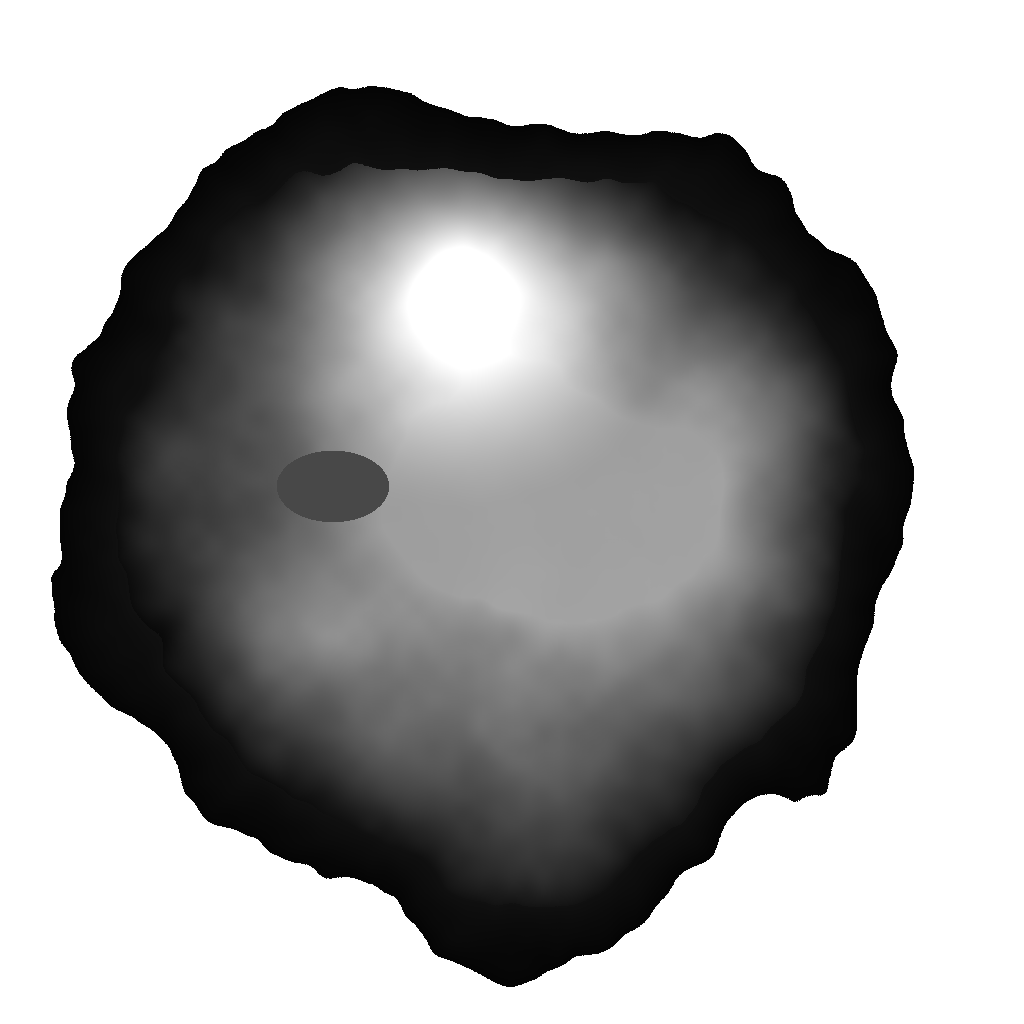
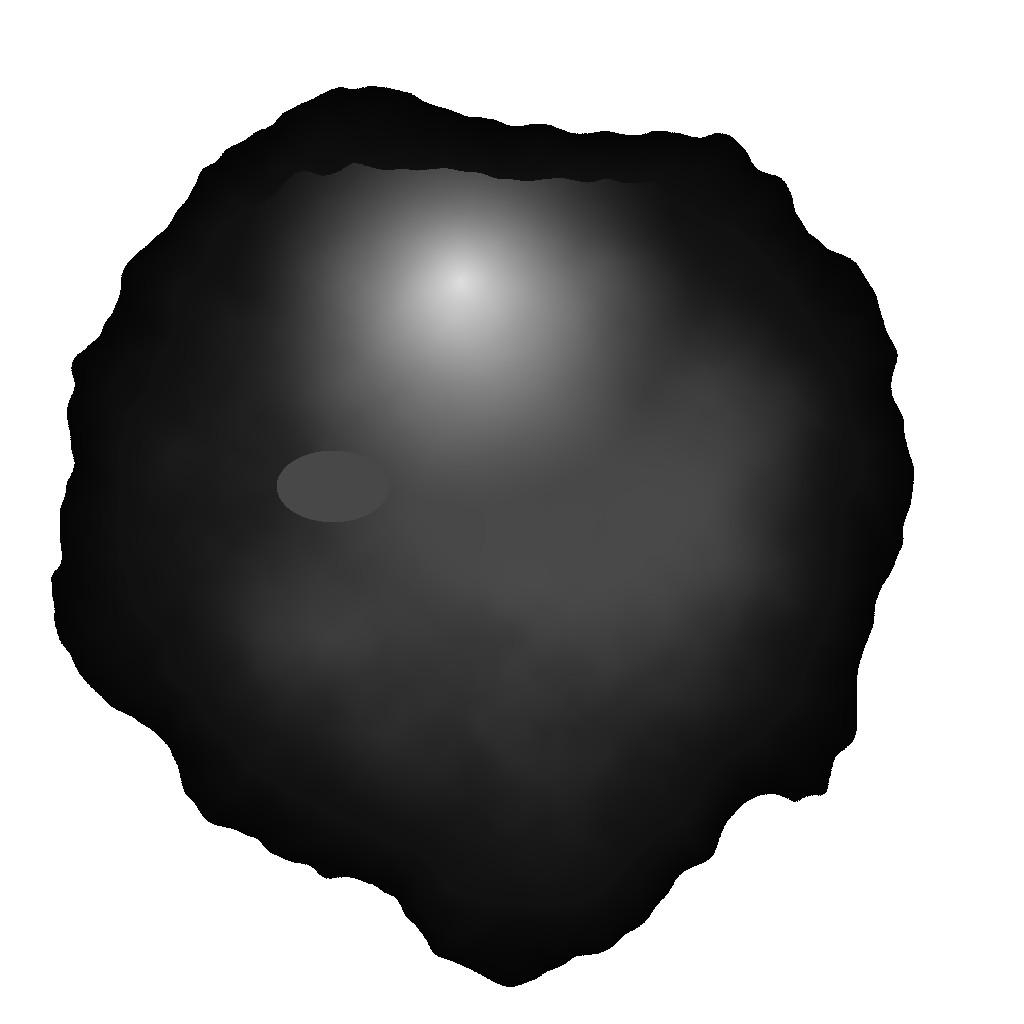
Relief depuis une image : lissage conseillé mesuré à l'écran ; projet d'exemple complet
Vérification à l'écran de l'île d'exemple (relief, mer, quartiers lotis, autoroute) :
- Arcs bruns le long des courbes de niveau = marches des 256 niveaux de gris. Lissage 8 m :
  visibles ; 48 m : effacés. Le critère « pente > 28° » les sous-estimait (l'éclairage les
  révèle avant). Nouveau `relief_image::lissage_conseille` = 25 × la marche
  ((blanc − noir) / 255), au moins 2 pixels ; proposé dans l'éditeur (« Prendre »).
- L'île d'exemple était trop raide (38 % de la terre au-dessus de 28° même lissée) :
  générateur corrigé (plaine côtière douce), 10 % restants = massif et bords du lac.
- Exemple exécutable `ile_exemple` : construit le projet complet (relief, mer creusée, ville
  et zone d'activité loties, autoroute et route relevées) à ouvrir dans l'éditeur.
- Mesures (--release) : relief 1,0 s, mer 0,95 s, relevés 0,37 s ; convention et todo à jour.

diff --git a/mcf/crates/mcf_carte/examples/ile_exemple.rs b/mcf/crates/mcf_carte/examples/ile_exemple.rs
@@ -1,0 +1,90 @@
+//! Construit un projet de carte complet à partir de l'exemple de la convention des cartes sources
+//! (`docs/CONVENTION_CARTES_SOURCE.md`) : relief depuis la carte en gris, mer creusée, ville et zone industrielle
+//! relevées et loties, autoroute et route relevées. Exactement les gestes de l'auteur dans l'éditeur, sans l'éditeur.
+//!
+//! ```text
+//! cargo run -p mcf_carte --example ile_exemple --release -- <dossier neuf ou vide>
+//! cargo editor -- <dossier>
+//! ```
+
+use std::path::PathBuf;
+use std::time::Instant;
+
+use mcf_carte::{Carte, Densite, Famille, Manifeste, releve, relief_image};
+use mcf_geo::ClasseRoute;
+
+fn exemple(nom: &str) -> Vec<u8> {
+    let chemin = PathBuf::from(env!("CARGO_MANIFEST_DIR"))
+        .join("../../../docs/exemples")
+        .join(nom);
+    std::fs::read(&chemin).unwrap_or_else(|e| panic!("{} : {e}", chemin.display()))
+}
+
+fn relever(c: &Carte, id: mcf_carte::Id, sorte: releve::Sorte, px: f64, py: f64) -> Vec<releve::Proposition> {
+    let r = &c.references.references[&id];
+    let g = releve::Grille::preparer(&c.images_references[&id], r, &c.manifeste).expect("grille");
+    g.analyser(sorte, r.vers_carte(px, py), &sorte.reglages())
+        .expect("analyse")
+}
+
+fn main() -> Result<(), String> {
+    let dossier = std::env::args_os()
+        .nth(1)
+        .map(PathBuf::from)
+        .ok_or("usage : ile_exemple <dossier neuf ou vide>")?;
+    let debut = Instant::now();
+
+    let mut m = Manifeste::nouveau("ile_exemple", 4096.0);
+    (m.altitude_min_m, m.altitude_max_m) = (-40.0, 600.0);
+    let mut c = Carte::nouvelle(m)?;
+    let couleurs = c.importer_reference("couleurs", &exemple("ile_exemple_couleurs.png"))?;
+    let relief = c.importer_reference("relief", &exemple("ile_exemple_relief.png"))?;
+    c.modifier_reference(relief, "Masquer le calque de relief", |r| {
+        r.visible = false;
+        Ok(())
+    })?;
+
+    let n = c.relief_depuis_reference(
+        relief,
+        -40.0,
+        600.0,
+        relief_image::lissage_conseille(-40.0, 600.0, 4.0),
+    )?;
+    println!("Relief : {n} points.");
+    if let Some(releve::Proposition::Eau(eau)) = relever(&c, couleurs, releve::Sorte::Eau, 20.0, 20.0).first()
+    {
+        println!("Mer : {} points creusés.", c.creuser_eau(eau, 0.0, 8.0, 40.0)?);
+    }
+    for (px, py, famille, nom) in [
+        (615.0, 738.0, Famille::Residentiel, "ville"),
+        (790.0, 612.0, Famille::Activite, "zone industrielle"),
+    ] {
+        if let Some(releve::Proposition::Zone { polygone, .. }) =
+            relever(&c, couleurs, releve::Sorte::Zone, px, py).first()
+        {
+            let id = c.ajouter_zone(releve::borner(polygone, &c.manifeste), famille, Densite::Moyenne)?;
+            println!("{nom} : {} bâtiment(s).", c.lotir(id)?);
+        }
+    }
+    for (px, py, classe) in [
+        (721.0, 685.0, ClasseRoute::Autoroute),
+        (300.0, 600.0, ClasseRoute::Route),
+    ] {
+        for p in relever(&c, couleurs, releve::Sorte::Routes, px, py)
+            .iter()
+            .take(1)
+        {
+            if let releve::Proposition::Route { trace, .. } = p {
+                let ids = c.tracer_route(classe, &releve::borner(trace, &c.manifeste), 4.0)?;
+                println!("{} : {} tronçon(s).", classe.nom(), ids.len());
+            }
+        }
+    }
+    c.enregistrer(Some(&dossier))?;
+    println!(
+        "Projet écrit dans {} en {:?}.",
+        dossier.display(),
+        debut.elapsed()
+    );
+    Ok(())
+}

diff --git a/mcf/crates/mcf_carte/src/relief_image.rs b/mcf/crates/mcf_carte/src/relief_image.rs
@@ -13,6 +13,18 @@ pub const LISSAGE_MAX_M: f64 = 500.0;
 /// Seuil d'opacité sous lequel un pixel ne porte pas de donnée (0 à 255).
 pub const ALPHA_DONNEE: u8 = 128;
 
+/// Lissage conseillé (m) pour effacer les marches des 256 niveaux : ~25 fois la hauteur d'une marche
+/// (`(blanc − noir) / 255`), et au moins 2 pixels de l'image. Constaté à l'écran sur l'exemple de la convention
+/// (2,5 m par niveau, 4 m par pixel) : 8 m laisse des arcs le long des courbes de niveau, 48 m les efface ; un critère
+/// de pente seule (> 28°) ne les voyait pas, l'éclairage les révèle bien avant.
+pub fn lissage_conseille(noir_m: f64, blanc_m: f64, m_par_px: f64) -> f64 {
+    let marche = (blanc_m - noir_m).abs() / 255.0;
+    (25.0 * marche)
+        .max(2.0 * m_par_px)
+        .clamp(0.0, LISSAGE_MAX_M)
+        .round()
+}
+
 /// Gris (0 = noir, 1 = blanc) d'un pixel, ou `None` s'il est transparent. Luminance Rec. 709 des valeurs codées :
 /// une image en niveaux de gris redonne exactement son niveau.
 fn gris_pixel(image: &ImageRgba, x: usize, y: usize) -> Option<f64> {
@@ -143,6 +155,16 @@ mod tests {
         assert_eq!(gris(&trou, 0.5, 0.5), None);
         // À côté du trou : le pixel le plus proche, sans mélange avec le trou.
         assert_eq!(gris(&trou, 1.2, 0.5), Some(1.0));
+    }
+
+    #[test]
+    fn lissage_conseille_selon_la_marche() {
+        // Exemple de la convention : 640 m sur 255 niveaux = 2,5 m par marche → 63 m.
+        assert_eq!(lissage_conseille(-40.0, 600.0, 4.0), 63.0);
+        // map_1 : 2 600 m de dénivelé, 25 m par pixel → ~255 m.
+        assert_eq!(lissage_conseille(-100.0, 2500.0, 25.0), 255.0);
+        // Faible dénivelé, gros pixels : 2 pixels au moins.
+        assert_eq!(lissage_conseille(0.0, 10.0, 30.0), 60.0);
     }
 
     #[test]

diff --git a/mcf/crates/mcf_editor/src/conception/ui.rs b/mcf/crates/mcf_editor/src/conception/ui.rs
@@ -1242,11 +1242,22 @@ fn relief_depuis_calque(ui: &mut egui::Ui, projet: &mut Projet, edition: &mut Ed
         .on_hover_text("Adoucit les marches des 256 niveaux de gris (0 = aucun).");
         ui.end_row();
     });
-    ui.label(
-        egui::RichText::new(format!("Plage d'altitude de la carte : {min} à {max} m."))
+    let conseille = projet.carte.references.references.get(&id).map_or(0.0, |r| {
+        mcf_carte::relief_image::lissage_conseille(edition.relief_noir_m, edition.relief_blanc_m, r.m_par_px)
+    });
+    ui.horizontal(|ui| {
+        ui.label(
+            egui::RichText::new(format!(
+                "Plage de la carte : {min} à {max} m. Lissage conseillé : {conseille} m (efface les marches des \
+                 256 niveaux de gris)."
+            ))
             .small()
             .weak(),
-    );
+        );
+        if ui.small_button("Prendre").clicked() {
+            edition.relief_lissage_m = conseille;
+        }
+    });
     if ui.button("⛰ Appliquer comme relief").clicked() {
         let r = projet.carte.relief_depuis_reference(
             id,

diff --git a/mcf/tools/exemple_carte/generer.py b/mcf/tools/exemple_carte/generer.py
@@ -54,9 +54,13 @@ def main():
     terre = 0.72 - np.hypot(x * 1.05, y) + 0.18 * bruit(rng, COTE_PX)
     # Massif au nord, collines douces ailleurs, plaine côtière au sud.
     massif = np.clip(1 - np.hypot(x + 0.1, y + 0.45) / 0.45, 0, 1) ** 1.6
+    # Plaine côtière douce (montée progressive vers l'intérieur), collines modérées, massif plus raide.
+    interieur = np.clip(terre / 0.5, 0, 1)
+    interieur = interieur * interieur * (3 - 2 * interieur)
+    collines = 12 * bruit(rng, COTE_PX, 4) * interieur
     altitude = np.where(
         terre > 0,
-        2 + 900 * np.clip(terre, 0, 0.4) + 520 * massif + 25 * bruit(rng, COTE_PX, 6),
+        2 + 140 * interieur + 430 * massif + collines,
         -40 * np.clip(-terre * 6, 0, 1),
     )
     # Lac à 140 m dans une cuvette à l'ouest du massif.

diff --git a/mcf/crates/mcf_carte/tests/exemple_ile.rs b/mcf/crates/mcf_carte/tests/exemple_ile.rs
@@ -5,7 +5,7 @@
 use std::path::PathBuf;
 use std::time::Instant;
 
-use mcf_carte::{Carte, Manifeste, releve};
+use mcf_carte::{Carte, Manifeste, releve, relief_image};
 
 fn exemple(nom: &str) -> Vec<u8> {
     let chemin = PathBuf::from(env!("CARGO_MANIFEST_DIR"))
@@ -46,7 +46,12 @@ fn ile_exemple_de_bout_en_bout() {
     // 3. Relief depuis la carte en niveaux de gris.
     let t = Instant::now();
     let n = c
-        .relief_depuis_reference(relief, -40.0, 600.0, 8.0)
+        .relief_depuis_reference(
+            relief,
+            -40.0,
+            600.0,
+            relief_image::lissage_conseille(-40.0, 600.0, 4.0),
+        )
         .expect("relief");
     println!("MESURE relief : {n} points en {:?}", t.elapsed());
     let r = c.references.references[&relief].clone();

diff --git a/docs/CONVENTION_CARTES_SOURCE.md b/docs/CONVENTION_CARTES_SOURCE.md
@@ -25,9 +25,12 @@ endroit. Les tailles en pixels peuvent différer (l'éditeur recopie le calage e
 | ![couleurs](exemples/ile_exemple_couleurs.png) | ![relief](exemples/ile_exemple_relief.png) |
 
 Vérifié de bout en bout par `cargo test -p mcf_carte --test exemple_ile` (mesures brutes, `--release`, PC de dev) :
-relief appliqué sur 9,1 millions de points en 0,87 s (sommet 600 m, lac à 140,7 m pour 140 attendus) ; mer relevée
-et creusée en 0,89 s ; ville relevée d'un clic (0,61 km² pour ~0,62 attendus) ; autoroute relevée d'un clic sur
-1 842 m.
+relief appliqué sur 9,1 millions de points en 1,0 s (lissage conseillé 63 m ; sommet 469,5 m, lac à 140,7 m pour
+140 attendus) ; mer relevée et creusée en 0,95 s ; ville relevée d'un clic (0,61 km² pour ~0,62 attendus) ;
+autoroute relevée d'un clic sur 1 842 m.
+
+Projet complet (relief, mer, deux quartiers lotis, autoroute, route) prêt à ouvrir dans l'éditeur :
+`cargo run -p mcf_carte --example ile_exemple --release -- <dossier>`, puis `cargo editor -- <dossier>`.
 
 ## Carte couleurs
 
@@ -68,9 +71,13 @@ rue 14 m) à l'échelle de l'image.
    création, 4 096 m d'écart au plus).
 2. **Transparent = pas de donnée** : le relief existant n'y est pas touché (utile pour ne fournir que le massif, ou
    laisser la mer au relevé de l'eau).
-3. **8 bits** : 256 niveaux. Sur 640 m (exemple) un niveau vaut 2,5 m ; sur 2 500 m, ~10 m. Le **lissage** de
-   l'éditeur adoucit ces marches (8 à 30 m conseillés) ; il ne recrée pas le détail absent de l'image. Le 16 bits
-   n'est pas encore lu (les calques sont convertis en 8 bits) : à prévoir si le besoin se confirme.
+3. **8 bits** : 256 niveaux. Sur 640 m (exemple) un niveau vaut 2,5 m ; sur 2 600 m, ~10 m. Sans lissage, le
+   terrain fait des paliers et de petites marches, visibles à l'éclairage comme des arcs le long des courbes de
+   niveau. **Lissage conseillé ≈ 25 × la hauteur d'une marche** (`25 × (blanc − noir) / 255`, au moins 2 pixels) :
+   l'éditeur le calcule et le propose (« Prendre »). Constaté à l'écran sur l'exemple (marche de 2,5 m) : 8 m laisse
+   les arcs, 48 m les efface ; un critère de pente seule (> 28°) les sous-estimait. Le prix : le relief plus petit
+   que la fenêtre de lissage est gommé (pour `map_1`, ~255 m). Le 16 bits n'est pas encore lu (calques convertis en
+   8 bits) ; une image générée par IA est de toute façon en 8 bits.
 4. Les **plans d'eau** gagnent à être **plats** dans la carte de relief (même gris sur tout le lac).
 
 ## Dans l'éditeur, pas à pas
@@ -79,7 +86,8 @@ rue 14 m) à l'échelle de l'image.
 2. **Importer une image…** : la carte couleurs. Elle couvre la largeur de la carte ; si l'emprise n'est pas la même,
    « 📏 Caler » (deux repères, distance réelle) puis « ✋ Déplacer ».
 3. **Importer une image…** : la carte de relief, puis **« Même calage que… » → la carte couleurs**.
-4. Sur le calque de relief : altitudes du **noir** et du **blanc**, **lissage**, « ⛰ Appliquer comme relief ».
+4. Sur le calque de relief : altitudes du **noir** et du **blanc**, **lissage** (« Prendre » le conseillé),
+   « ⛰ Appliquer comme relief ».
 5. Sur le calque couleurs, **relevé assisté** : « Eau / côte » (clic dans la mer), « Taches » (clic dans une ville),
    « Routes » (clic sur un trait, classe choisie avant). Valider / rejeter chaque proposition.
 6. Tout s'annule (Ctrl+Z), étape par étape.

diff --git a/todo.md b/todo.md
@@ -35,8 +35,14 @@
     l'écran**). Convention et exemple : `docs/CONVENTION_CARTES_SOURCE.md` (deux images au même cadrage : carte
     couleurs + carte de relief). Sur le calque de relief : « Même calage que… » la carte couleurs, altitudes du noir
     et du blanc, lissage, « ⛰ Appliquer comme relief ». Plage d'altitude réglable à la création de la carte.
-    - Exemple `docs/exemples/ile_exemple_*.png` (4 km) : relief 0,87 s, mer 0,89 s, ville et autoroute relevées d'un
-      clic (mesures brutes, `--release`).
+    - Exemple `docs/exemples/ile_exemple_*.png` (4 km) : relief 1,0 s, mer 0,95 s, ville et autoroute relevées d'un
+      clic (mesures brutes, `--release`). Projet complet : `cargo run -p mcf_carte --example ile_exemple --release
+      -- <dossier>`. **Vu à l'écran** (2026-11-24) : île, massif, lac, mer, quartiers lotis, autoroute ; liste des
+      classes avec « Voie express » et « Autoroute ».
+    - Marches des 256 niveaux : arcs bruns le long des courbes de niveau avec un lissage faible. Lissage conseillé =
+      25 × la marche (63 m pour l'exemple), proposé par l'éditeur ; 48 m les efface à l'écran.
+    - Reste à voir : léger motif en pointillés sur les pentes fortes du massif (ombrage du maillage sous-échantillonné
+      ou ombres ? non élucidé) ; terre-plein de l'autoroute pas encore regardé de près.
     - `map_1.png` et `map_sat.png` n'ont **pas** le relief en chiffres : demander une carte de relief au même cadrage
       (prompts dans la convention).
 - [x] Rendu : luminosité, ciel, textures plus qualitatives → première passe codée. **Pas encore vue à l'écran**
